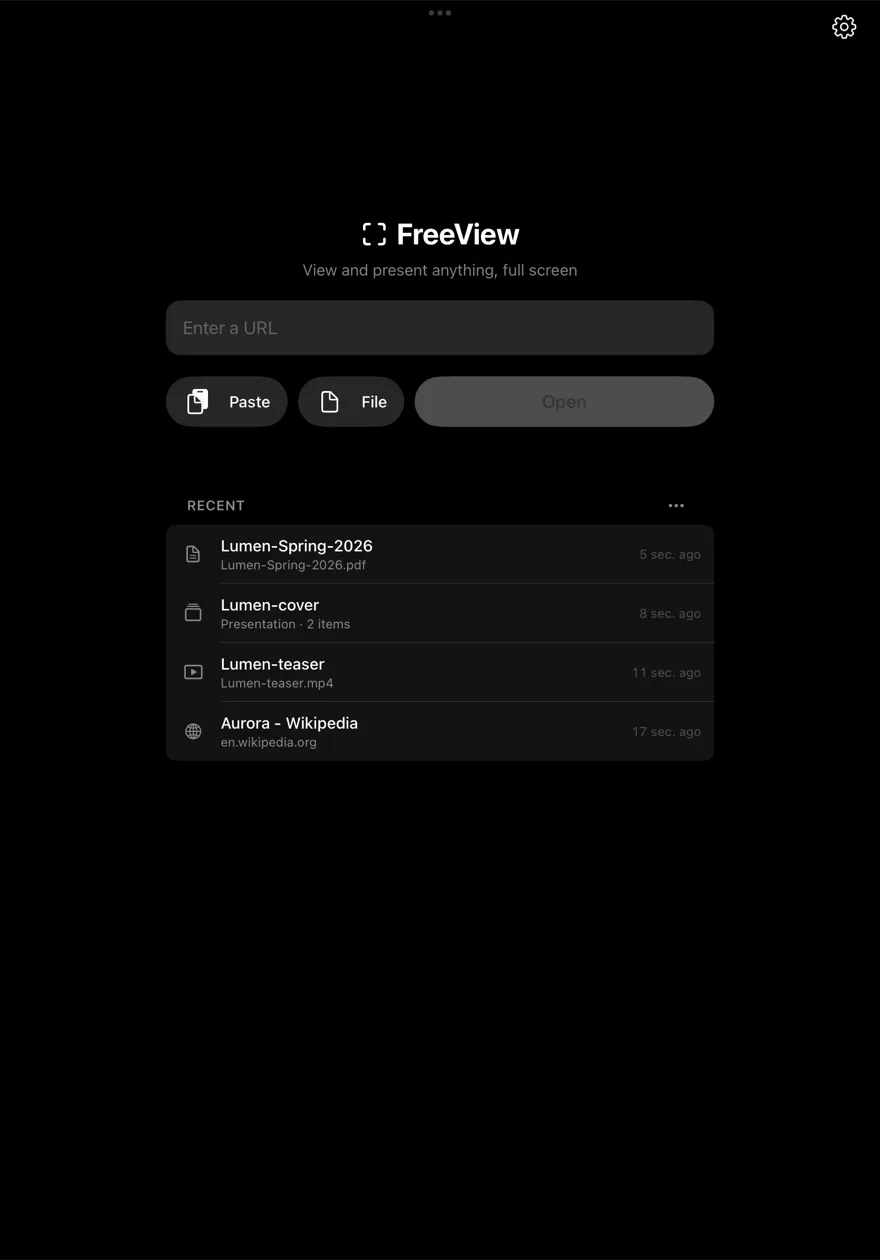
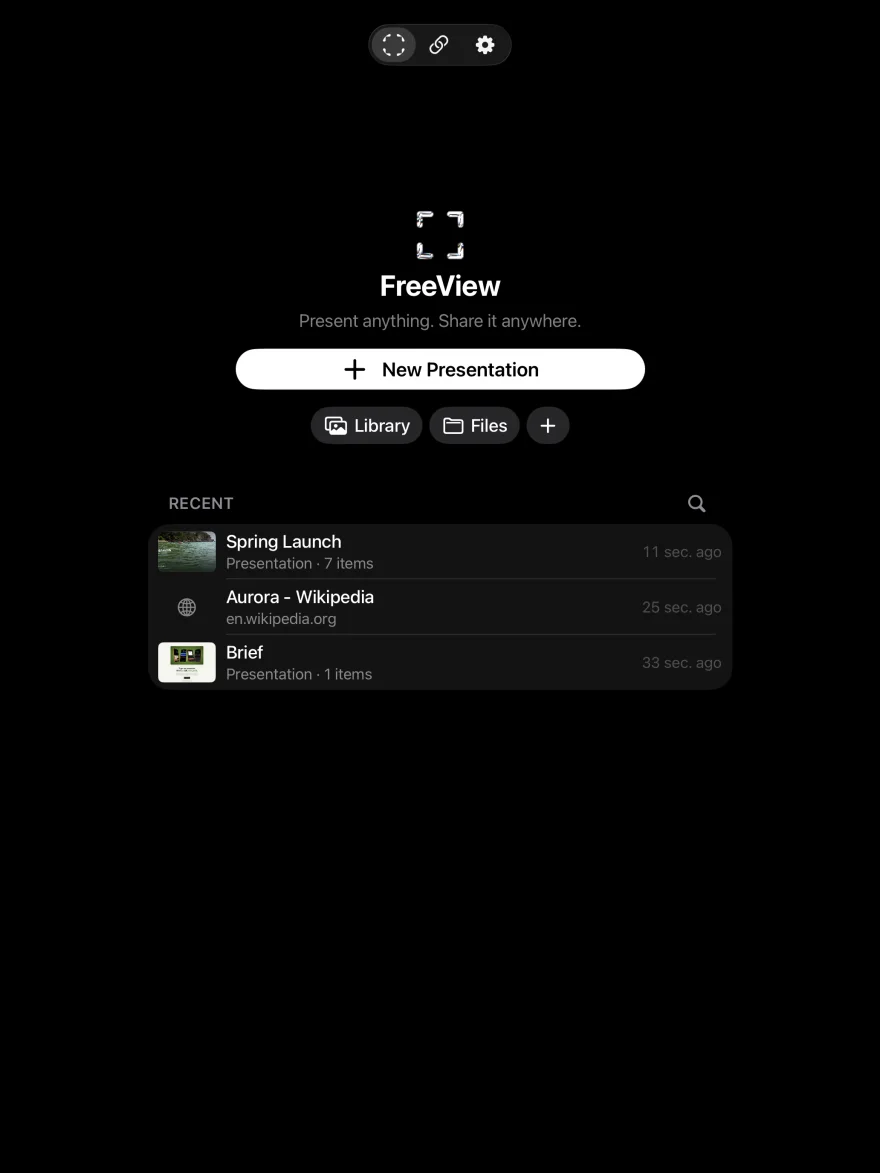
Screenshots from 2.1 (iPhone 17 Pro Max and iPad Pro 13" simulators, the Spring Launch demo deck); the iPad frames take the 13" ratio; the 2.0 TestFlight call-outs go (2.0 is live); the pricing block shows the launch prices until 15 November; privacy: the profile folder, a presentation's own present

diff --git a/index.html b/index.html
@@ -237,17 +237,16 @@ footer a{color:var(--muted2);display:inline-block;padding:12px 10px}
   <a class="appstore heroBadge" href="https://apps.apple.com/app/id1526222244" target="_blank" rel="noopener" aria-label="Download FreeView on the App Store">
     <img src="appstore-badge.svg" alt="Download on the App Store">
   </a>
-  <p class="storenote">For iPhone, iPad and Mac · Free to start · The new 2.0 is in beta on TestFlight</p>
+  <p class="storenote">For iPhone, iPad and Mac · Free to start</p>
   <div class="ctarow">
-    <a class="cta" href="https://testflight.apple.com/join/4T1Lixbc" target="_blank" rel="noopener">Join the 2.0 beta</a>
-    <a class="cta ghost" href="#tour">See the tour</a>
+    <a class="cta" href="#tour">See the tour</a>
     <a class="cta ghost" href="support.html">Support</a>
   </div>
 </header>
 
 <script>if(matchMedia('(prefers-reduced-motion: reduce)').matches){var v=document.querySelector('.herovid');v.removeAttribute('autoplay');v.pause();}</script>
 <div id="tour"></div>
-<section class="feat"><div class="wrap"><div class="copy"><h2>Any mix of files, one presentation</h2><p>Pick a Keynote deck, a PDF, a film, photos, a 3D model, a voice note and a spreadsheet, and they become one presentation, a slide each, in the order you want. No converting, no copying and pasting, no slide software.</p><ul class="bul"><li><svg viewBox="0 0 24 24" fill="none" stroke="currentColor" stroke-width="1.7" aria-hidden="true"><use href="#i-stack"/></svg>Keynote, PowerPoint, Word, PDFs, videos, photos, audio</li><li><svg viewBox="0 0 24 24" fill="none" stroke="currentColor" stroke-width="1.7" aria-hidden="true"><use href="#i-check"/></svg>3D models, Lottie animations, Markdown, tables and live web pages</li><li><svg viewBox="0 0 24 24" fill="none" stroke="currentColor" stroke-width="1.7" aria-hidden="true"><use href="#i-folder"/></svg>From Files, Photos, AirDrop, Mail or the camera, even a scan</li></ul></div><div class="shotframe featshot"><img src="shot-deck.webp" width="612" height="1330" alt="Editing a presentation in FreeView: a cover, a brief, photos, a film, a 3D prototype, numbers, a Keynote review and a voice note, in order" loading="lazy"></div></div></section>
+<section class="feat"><div class="wrap"><div class="copy"><h2>Any mix of files, one presentation</h2><p>Pick a Keynote deck, a PDF, a film, photos, a 3D model, a voice note and a spreadsheet, and they become one presentation, a slide each, in the order you want. No converting, no copying and pasting, no slide software.</p><ul class="bul"><li><svg viewBox="0 0 24 24" fill="none" stroke="currentColor" stroke-width="1.7" aria-hidden="true"><use href="#i-stack"/></svg>Keynote, PowerPoint, Word, PDFs, videos, photos, audio</li><li><svg viewBox="0 0 24 24" fill="none" stroke="currentColor" stroke-width="1.7" aria-hidden="true"><use href="#i-check"/></svg>3D models, Lottie animations, Markdown, tables and live web pages</li><li><svg viewBox="0 0 24 24" fill="none" stroke="currentColor" stroke-width="1.7" aria-hidden="true"><use href="#i-folder"/></svg>From Files, Photos, AirDrop, Mail or the camera, even a scan</li></ul></div><div class="shotframe featshot"><img src="shot-deck.webp" width="612" height="1330" alt="Editing a presentation in FreeView: a cover, a brief, a photo, a film, a 3D prototype, a table of numbers and a sunset, in order" loading="lazy"></div></div></section>
 <section class="feat flip"><div class="wrap"><div class="shotframe featshot"><img src="shot-cover.webp" width="612" height="1330" alt="A cover slide over a photo of the sea: title, logo, the presenter's photo, name and contacts" loading="lazy"></div><div class="copy"><h2>Make it yours in seconds</h2><p>Add a cover with your logo, name, photo and contacts, and text slides for the bits in between. Any web address on a slide becomes a QR code. Pick a style or make one from your logo's colours.</p><ul class="bul"><li><svg viewBox="0 0 24 24" fill="none" stroke="currentColor" stroke-width="1.7" aria-hidden="true"><use href="#i-photo"/></svg>Any picture from the presentation as the cover</li><li><svg viewBox="0 0 24 24" fill="none" stroke="currentColor" stroke-width="1.7" aria-hidden="true"><use href="#i-check"/></svg>Saved styles you can copy to other presentations</li><li><svg viewBox="0 0 24 24" fill="none" stroke="currentColor" stroke-width="1.7" aria-hidden="true"><use href="#i-code"/></svg>A QR code for every link, automatically</li></ul></div></div></section>
 <section class="feat"><div class="wrap"><div class="copy"><h2>Share one link, whatever the size</h2><p>Long films, big decks, dozens of photos: send a link, not attachments. Add a welcome message, choose how long it works, and update it after edits without changing the link.</p><ul class="bul"><li><svg viewBox="0 0 24 24" fill="none" stroke="currentColor" stroke-width="1.7" aria-hidden="true"><use href="#i-airplay"/></svg>One link instead of files people can't open</li><li><svg viewBox="0 0 24 24" fill="none" stroke="currentColor" stroke-width="1.7" aria-hidden="true"><use href="#i-lock"/></svg>A welcome screen, a password if you need one</li><li><svg viewBox="0 0 24 24" fill="none" stroke="currentColor" stroke-width="1.7" aria-hidden="true"><use href="#i-clock"/></svg>Ends when you choose; see how often it was opened</li></ul></div><div class="shotframe featshot"><img src="shot-share.webp" width="612" height="1330" alt="Sharing a presentation: its cover, what's in it, a title and message, and how long the link works" loading="lazy"></div></div></section>
 <section class="feat flip"><div class="wrap"><div class="shotframe featshot"><img src="shot-web-phone.webp" width="612" height="1330" alt="The shared presentation playing in a phone's browser" loading="lazy"></div><div class="copy"><h2>Opens on any screen</h2><p>Whoever gets the link watches it in their browser, on a laptop, tablet, phone or TV, ready to present. No app, no account, nothing to install, and Keynote, video and 3D all just play.</p><ul class="bul"><li><svg viewBox="0 0 24 24" fill="none" stroke="currentColor" stroke-width="1.7" aria-hidden="true"><use href="#i-globe"/></svg>Any modern browser</li><li><svg viewBox="0 0 24 24" fill="none" stroke="currentColor" stroke-width="1.7" aria-hidden="true"><use href="#i-keys"/></svg>Arrow keys, clickers, swipe or tap</li><li><svg viewBox="0 0 24 24" fill="none" stroke="currentColor" stroke-width="1.7" aria-hidden="true"><use href="#i-check"/></svg>Full screen, filled edge to edge</li></ul></div></div></section>
@@ -260,14 +259,14 @@ footer a{color:var(--muted2);display:inline-block;padding:12px 10px}
     <h2>Straight from the app</h2>
     <p>Real screens on iPhone and iPad: the home screen, a PDF as a slide, night mode on a web page, and FreeView&nbsp;Pro.</p>
     <div class="shots">
-      <div class="shotframe"><img src="shot-home.webp" width="612" height="1330" alt="The home screen with an address field, Paste and File buttons, and three recent items" loading="lazy"></div>
+      <div class="shotframe"><img src="shot-home.webp" width="612" height="1330" alt="The home screen: New Presentation, Library and Files, and three recent items" loading="lazy"></div>
       <div class="shotframe"><img src="shot-pdf.webp" width="612" height="1330" alt="A PDF slide shown full screen on black" loading="lazy"></div>
       <div class="shotframe"><img src="shot-night.webp" width="612" height="1330" alt="A Wikipedia article in night mode, deep red on black" loading="lazy"></div>
-      <div class="shotframe"><img src="shot-paywall.webp" width="612" height="1330" alt="FreeView Pro: monthly, yearly with a free week, or lifetime" loading="lazy"></div>
+      <div class="shotframe"><img src="shot-paywall.webp" width="612" height="1330" alt="FreeView Pro: yearly, lifetime or monthly, at the launch prices" loading="lazy"></div>
     </div>
     <div class="shots ipad">
-      <div class="tabframe"><img src="shot-ipad-home.webp" width="880" height="1260" alt="The FreeView home screen on iPad with recent pages, files and presentations" loading="lazy"></div>
-      <div class="tabframe"><img src="shot-ipad-pdf.webp" width="880" height="1260" alt="A PDF slide full screen on iPad" loading="lazy"></div>
+      <div class="tabframe"><img src="shot-ipad-home.webp" width="880" height="1173" alt="The FreeView home screen on iPad: New Presentation, Library and Files, and the recent presentations, pages and files" loading="lazy"></div>
+      <div class="tabframe"><img src="shot-ipad-pdf.webp" width="880" height="1173" alt="A PDF slide full screen on iPad" loading="lazy"></div>
     </div>
   </div>
 </section>
@@ -278,14 +277,13 @@ footer a{color:var(--muted2);display:inline-block;padding:12px 10px}
     <p>Viewing, presenting, editing, custom slides and styles are free. Free keeps your three most recent presentations and shares one link at a time, for up to a week. FreeView Pro keeps every presentation and shares as many links as you like, for up to 90 days, with passwords, per-slide views and no FreeView mark.</p>
     <div class="price">
       <div class="cardp"><div class="amt">$1.99</div><div class="per">Pro · monthly</div></div>
-      <div class="cardp best"><div class="amt">$9.99</div><div class="per">Pro · yearly · first week free</div></div>
-      <div class="cardp"><div class="amt">$19.99</div><div class="per">Lifetime · pay once</div></div>
+      <div class="cardp best"><div class="amt">$4.99</div><div class="per">Pro · first year · then $9.99 a year</div></div>
+      <div class="cardp"><div class="amt">$9.99</div><div class="per">Lifetime · pay once · launch price</div></div>
     </div>
-    <p style="font-size:13px;margin-top:16px">US prices; your App Store shows local pricing. Monthly and yearly plans renew automatically unless cancelled at least 24 hours before the period ends; manage them in Settings → Apple Account → Subscriptions.</p>
+    <p style="font-size:13px;margin-top:16px">Launch prices until 15 November 2026; after that the yearly plan starts with a free week at $9.99 a year and Lifetime is $19.99. US prices; your App Store shows local pricing. Monthly and yearly plans renew automatically unless cancelled at least 24 hours before the period ends; manage them in Settings → Apple Account → Subscriptions.</p>
     <a class="appstore" style="margin-top:26px" href="https://apps.apple.com/app/id1526222244" target="_blank" rel="noopener" aria-label="Download FreeView on the App Store">
       <img src="appstore-badge.svg" alt="Download on the App Store">
     </a>
-    <p style="font-size:13px;margin-top:14px">Want the new version today? <a href="https://testflight.apple.com/join/4T1Lixbc" target="_blank" rel="noopener" style="text-decoration:underline;text-underline-offset:3px">Join the FreeView 2.0 beta on TestFlight</a>.</p>
   </div>
 </section>
 

diff --git a/privacy.html b/privacy.html
@@ -55,7 +55,7 @@ footer a{color:var(--muted)}
   <img src="logo.png" alt="FreeView" width="52" height="52" style="border-radius:12px;display:block;margin:12px 0 4px;outline:1px solid rgba(255,255,255,.1);outline-offset:-1px">
   <div class="kicker">FreeView</div>
   <h1>Privacy Policy</h1>
-  <p class="muted">Last updated: 13 October 2026</p>
+  <p class="muted">Last updated: 15 October 2026</p>
 
   <p class="lead">FreeView shows web pages and files full screen, and it keeps what you open on your device. It has no accounts, no analytics and no advertising. The only things that leave your device are presentations you choose to share as a link, and the anonymous record of a FreeView Pro purchase.</p>
 
@@ -67,7 +67,7 @@ footer a{color:var(--muted)}
   <ul>
     <li><strong>History</strong>: the addresses, titles and dates of what you open, and any names you give them.</li>
     <li><strong>Files and presentations</strong>: PDFs, videos, photos, audio, documents and the slides you make are copied into FreeView's own storage, with pictures FreeView makes from them (pages of Keynote, PowerPoint or Word files, previews and edits).</li>
-    <li><strong>Profile</strong>: the name, role, photo, logo and contact details you add in Settings, for your covers and slides. They appear only on slides where you turn them on.</li>
+    <li><strong>Profile</strong>: the name, role, photo, logo and contact details you add in Settings, for your covers and slides, kept in a hidden folder beside your presentations. A presentation can have a presenter and a logo of its own, kept inside it. They appear only on slides where you turn them on.</li>
     <li><strong>Styles, settings and the kiosk PIN</strong>: your choices, saved styles, and the PIN as a salted hash in the Keychain.</li>
     <li><strong>Web data</strong>: cookies, site storage and cache, kept by Apple's WebKit as in Safari. Private browsing keeps none of it once a page closes.</li>
   </ul>
@@ -90,6 +90,9 @@ footer a{color:var(--muted)}
 
   <h2>Reimagine</h2>
   <p>On devices with Apple Intelligence, <strong>Reimagine</strong> uses Apple's Image Playground to make a new picture from a photo. Apple processes it on your device or with Private Cloud Compute, under Apple's privacy terms; FreeView sends nothing to us.</p>
+
+  <h2>Shortcuts, Siri and Spotlight</h2>
+  <p>FreeView offers actions to the Shortcuts app and Siri (open a presentation, next and previous slide, create a presentation or a link). To do that it gives Apple's frameworks on your device the titles, dates, covers and link addresses of your presentations and what the viewer is showing. This stays on your device under Apple's terms; nothing is sent to us. Nothing is listed while FreeView is locked with Face ID.</p>
 
   <h2>Face ID and Touch ID</h2>
   <p>Used only if you turn on <strong>Lock with Face ID</strong>, to unlock FreeView. Your device handles it entirely; FreeView never receives face or fingerprint data.</p>

diff --git a/build.py b/build.py
@@ -13,12 +13,10 @@ import pathlib
 
 OUT = pathlib.Path(sys.argv[1] if len(sys.argv) > 1 else ".")
 YEAR = "2026"
-UPDATED = "11 October 2026"
-PRIVACY_UPDATED = "13 October 2026"
+UPDATED = "12 October 2026"
+PRIVACY_UPDATED = "15 October 2026"
 EMAIL = "hello@freeview.app"
 STORE = "https://apps.apple.com/app/id1526222244"
-# Public TestFlight link for the 2.0 beta (external group "FreeView"). Drop it once 2.0 is live.
-TESTFLIGHT = "https://testflight.apple.com/join/4T1Lixbc"
 
 # ── shared bits ──────────────────────────────────────────────────────────────
 
@@ -346,7 +344,7 @@ FEATURES = "\n".join([
     feature("Any mix of files, one presentation", "Pick a Keynote deck, a PDF, a film, photos, a 3D model, a voice note and a spreadsheet, and they become one presentation, a slide each, in the order you want. No converting, no copying and pasting, no slide software.",
             [("stack", "Keynote, PowerPoint, Word, PDFs, videos, photos, audio"), ("check", "3D models, Lottie animations, Markdown, tables and live web pages"),
              ("folder", "From Files, Photos, AirDrop, Mail or the camera, even a scan")],
-            shot("shot-deck.webp", "Editing a presentation in FreeView: a cover, a brief, photos, a film, a 3D prototype, numbers, a Keynote review and a voice note, in order")),
+            shot("shot-deck.webp", "Editing a presentation in FreeView: a cover, a brief, a photo, a film, a 3D prototype, a table of numbers and a sunset, in order")),
     feature("Make it yours in seconds", "Add a cover with your logo, name, photo and contacts, and text slides for the bits in between. Any web address on a slide becomes a QR code. Pick a style or make one from your logo's colours.",
             [("photo", "Any picture from the presentation as the cover"), ("check", "Saved styles you can copy to other presentations"),
              ("code", "A QR code for every link, automatically")],
@@ -378,10 +376,9 @@ INDEX_BODY = f"""{ICONS}
   <a class="appstore heroBadge" href="{STORE}" target="_blank" rel="noopener" aria-label="Download FreeView on the App Store">
     <img src="appstore-badge.svg" alt="Download on the App Store">
   </a>
-  <p class="storenote">For iPhone, iPad and Mac · Free to start · The new 2.0 is in beta on TestFlight</p>
+  <p class="storenote">For iPhone, iPad and Mac · Free to start</p>
   <div class="ctarow">
-    <a class="cta" href="{TESTFLIGHT}" target="_blank" rel="noopener">Join the 2.0 beta</a>
-    <a class="cta ghost" href="#tour">See the tour</a>
+    <a class="cta" href="#tour">See the tour</a>
     <a class="cta ghost" href="support.html">Support</a>
   </div>
 </header>
@@ -395,14 +392,14 @@ INDEX_BODY = f"""{ICONS}
     <h2>Straight from the app</h2>
     <p>Real screens on iPhone and iPad: the home screen, a PDF as a slide, night mode on a web page, and FreeView&nbsp;Pro.</p>
     <div class="shots">
-      <div class="shotframe"><img src="shot-home.webp" width="612" height="1330" alt="The home screen with an address field, Paste and File buttons, and three recent items" loading="lazy"></div>
+      <div class="shotframe"><img src="shot-home.webp" width="612" height="1330" alt="The home screen: New Presentation, Library and Files, and three recent items" loading="lazy"></div>
       <div class="shotframe"><img src="shot-pdf.webp" width="612" height="1330" alt="A PDF slide shown full screen on black" loading="lazy"></div>
       <div class="shotframe"><img src="shot-night.webp" width="612" height="1330" alt="A Wikipedia article in night mode, deep red on black" loading="lazy"></div>
-      <div class="shotframe"><img src="shot-paywall.webp" width="612" height="1330" alt="FreeView Pro: monthly, yearly with a free week, or lifetime" loading="lazy"></div>
+      <div class="shotframe"><img src="shot-paywall.webp" width="612" height="1330" alt="FreeView Pro: yearly, lifetime or monthly, at the launch prices" loading="lazy"></div>
     </div>
     <div class="shots ipad">
-      <div class="tabframe"><img src="shot-ipad-home.webp" width="880" height="1260" alt="The FreeView home screen on iPad with recent pages, files and presentations" loading="lazy"></div>
-      <div class="tabframe"><img src="shot-ipad-pdf.webp" width="880" height="1260" alt="A PDF slide full screen on iPad" loading="lazy"></div>
+      <div class="tabframe"><img src="shot-ipad-home.webp" width="880" height="1173" alt="The FreeView home screen on iPad: New Presentation, Library and Files, and the recent presentations, pages and files" loading="lazy"></div>
+      <div class="tabframe"><img src="shot-ipad-pdf.webp" width="880" height="1173" alt="A PDF slide full screen on iPad" loading="lazy"></div>
     </div>
   </div>
 </section>
@@ -413,14 +410,13 @@ INDEX_BODY = f"""{ICONS}
     <p>Viewing, presenting, editing, custom slides and styles are free. Free keeps your three most recent presentations and shares one link at a time, for up to a week. FreeView Pro keeps every presentation and shares as many links as you like, for up to 90 days, with passwords, per-slide views and no FreeView mark.</p>
     <div class="price">
       <div class="cardp"><div class="amt">$1.99</div><div class="per">Pro · monthly</div></div>
-      <div class="cardp best"><div class="amt">$9.99</div><div class="per">Pro · yearly · first week free</div></div>
-      <div class="cardp"><div class="amt">$19.99</div><div class="per">Lifetime · pay once</div></div>
+      <div class="cardp best"><div class="amt">$4.99</div><div class="per">Pro · first year · then $9.99 a year</div></div>
+      <div class="cardp"><div class="amt">$9.99</div><div class="per">Lifetime · pay once · launch price</div></div>
     </div>
-    <p style="font-size:13px;margin-top:16px">US prices; your App Store shows local pricing. Monthly and yearly plans renew automatically unless cancelled at least 24 hours before the period ends; manage them in Settings → Apple Account → Subscriptions.</p>
+    <p style="font-size:13px;margin-top:16px">Launch prices until 15 November 2026; after that the yearly plan starts with a free week at $9.99 a year and Lifetime is $19.99. US prices; your App Store shows local pricing. Monthly and yearly plans renew automatically unless cancelled at least 24 hours before the period ends; manage them in Settings → Apple Account → Subscriptions.</p>
     <a class="appstore" style="margin-top:26px" href="{STORE}" target="_blank" rel="noopener" aria-label="Download FreeView on the App Store">
       <img src="appstore-badge.svg" alt="Download on the App Store">
     </a>
-    <p style="font-size:13px;margin-top:14px">Want the new version today? <a href="{TESTFLIGHT}" target="_blank" rel="noopener" style="text-decoration:underline;text-underline-offset:3px">Join the FreeView 2.0 beta on TestFlight</a>.</p>
   </div>
 </section>
 
@@ -488,7 +484,7 @@ PRIVACY = f"""  <p class="muted">Last updated: {PRIVACY_UPDATED}</p>
   <ul>
     <li><strong>History</strong>: the addresses, titles and dates of what you open, and any names you give them.</li>
     <li><strong>Files and presentations</strong>: PDFs, videos, photos, audio, documents and the slides you make are copied into FreeView's own storage, with pictures FreeView makes from them (pages of Keynote, PowerPoint or Word files, previews and edits).</li>
-    <li><strong>Profile</strong>: the name, role, photo, logo and contact details you add in Settings, for your covers and slides. They appear only on slides where you turn them on.</li>
+    <li><strong>Profile</strong>: the name, role, photo, logo and contact details you add in Settings, for your covers and slides, kept in a hidden folder beside your presentations. A presentation can have a presenter and a logo of its own, kept inside it. They appear only on slides where you turn them on.</li>
     <li><strong>Styles, settings and the kiosk PIN</strong>: your choices, saved styles, and the PIN as a salted hash in the Keychain.</li>
     <li><strong>Web data</strong>: cookies, site storage and cache, kept by Apple's WebKit as in Safari. Private browsing keeps none of it once a page closes.</li>
   </ul>
@@ -511,6 +507,9 @@ PRIVACY = f"""  <p class="muted">Last updated: {PRIVACY_UPDATED}</p>
 
   <h2>Reimagine</h2>
   <p>On devices with Apple Intelligence, <strong>Reimagine</strong> uses Apple's Image Playground to make a new picture from a photo. Apple processes it on your device or with Private Cloud Compute, under Apple's privacy terms; FreeView sends nothing to us.</p>
+
+  <h2>Shortcuts, Siri and Spotlight</h2>
+  <p>FreeView offers actions to the Shortcuts app and Siri (open a presentation, next and previous slide, create a presentation or a link). To do that it gives Apple's frameworks on your device the titles, dates, covers and link addresses of your presentations and what the viewer is showing. This stays on your device under Apple's terms; nothing is sent to us. Nothing is listed while FreeView is locked with Face ID.</p>
 
   <h2>Face ID and Touch ID</h2>
   <p>Used only if you turn on <strong>Lock with Face ID</strong>, to unlock FreeView. Your device handles it entirely; FreeView never receives face or fingerprint data.</p>

diff --git a/README.md b/README.md
@@ -5,4 +5,6 @@ Same structure as the Videogram site: home page with feature rows and a screensh
 terms, support and 404.
 
 The pages are generated by `build.py` (all styles inline): edit it, run `python3 build.py .`, commit.
-Screenshots (`shot-*.webp`) are real captures from the iPhone 17 Pro and iPad Pro simulators in dark mode.
+Screenshots (`shot-*.webp`) are real captures from the iPhone 17 Pro Max and iPad Pro 13" simulators in dark
+mode, taken with `marketing/store/capture.py` in the FreeView repo (the demo deck in `marketing/demo-media`)
+and scaled to 612 and 880 px wide with cwebp.
